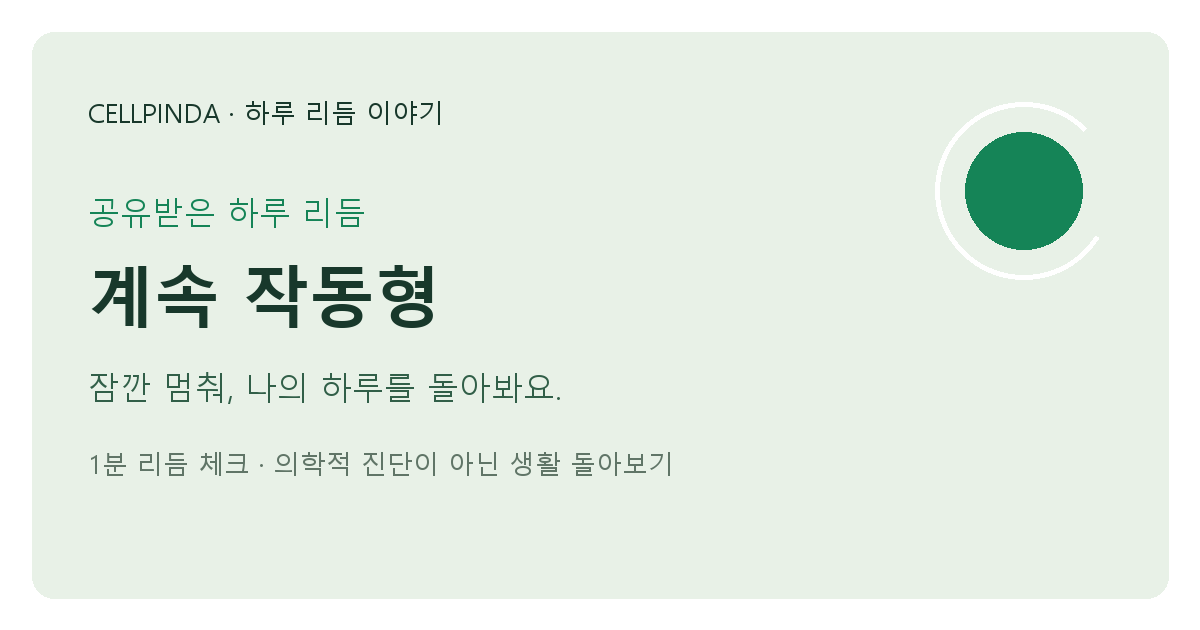
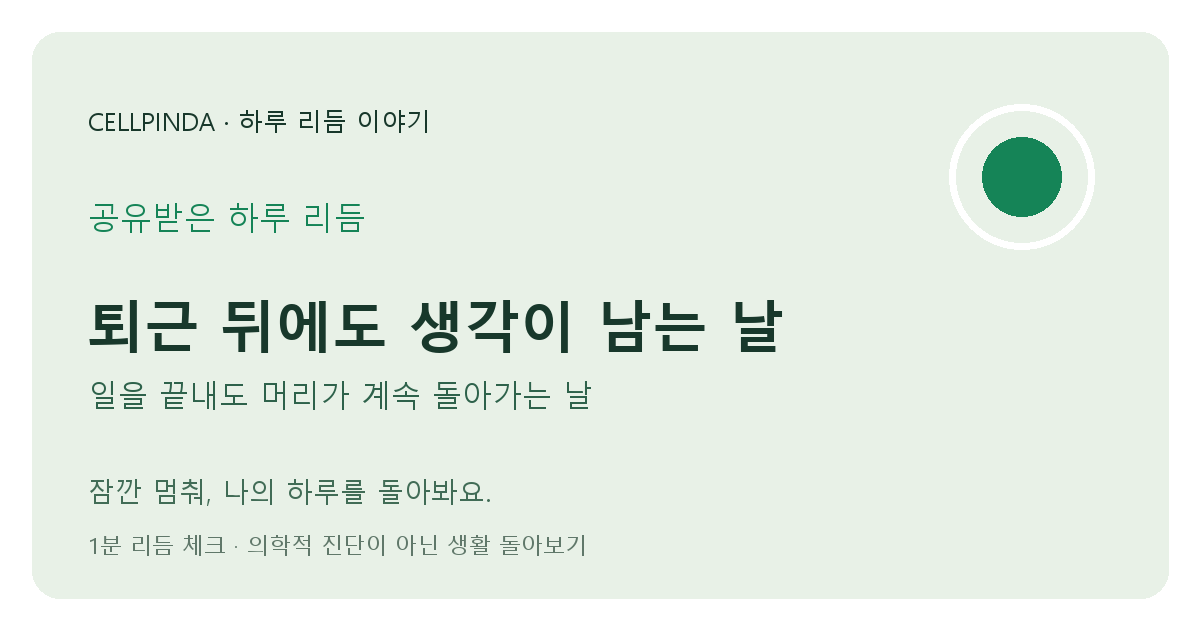
refine consumer rhythm and research copy

diff --git a/public/share/active/index.html b/public/share/active/index.html
@@ -1,10 +1,10 @@
 <!doctype html>
 <html lang="ko"><head><meta charset="UTF-8"><meta name="viewport" content="width=device-width, initial-scale=1">
-<title>공유받은 하루 리듬: ‘계속 작동형 · 퇴근 뒤에도 일이 생각나는 날’ | Cellpinda</title>
-<meta name="description" content="공유받은 ‘계속 작동형 · 퇴근 뒤에도 일이 생각나는 날’ 생활 기록이에요. 건강 검사가 아니며, 내 하루도 1분이면 확인해 보세요.">
+<title>공유받은 하루 리듬: ‘퇴근 뒤에도 생각이 남는 날 · 일을 끝내도 머리가 계속 돌아가는 날’ | Cellpinda</title>
+<meta name="description" content="공유받은 ‘퇴근 뒤에도 생각이 남는 날 · 일을 끝내도 머리가 계속 돌아가는 날’ 생활 기록이에요. 건강 검사가 아니며, 내 하루도 1분이면 확인해 보세요.">
 <link rel="canonical" href="https://kradavid.github.io/cellpinda_GABA/share/active/">
-<meta property="og:type" content="website"><meta property="og:site_name" content="셀핀다 발효가바"><meta property="og:locale" content="ko_KR"><meta property="og:url" content="https://kradavid.github.io/cellpinda_GABA/share/active/"><meta property="og:title" content="공유받은 하루 리듬: ‘계속 작동형 · 퇴근 뒤에도 일이 생각나는 날’ | Cellpinda"><meta property="og:description" content="공유받은 ‘계속 작동형 · 퇴근 뒤에도 일이 생각나는 날’ 생활 기록이에요. 건강 검사가 아니며, 내 하루도 1분이면 확인해 보세요."><meta property="og:image" content="https://kradavid.github.io/cellpinda_GABA/assets/social-rhythm-active.png"><meta property="og:image:type" content="image/png"><meta property="og:image:alt" content="계속 작동형 · 퇴근 뒤에도 일이 생각나는 날 하루 리듬 공유 카드"><meta property="og:image:width" content="1200"><meta property="og:image:height" content="630"><script type="application/ld+json">{"@context":"https://schema.org","@type":"WebPage","name":"공유받은 하루 리듬: ‘계속 작동형 · 퇴근 뒤에도 일이 생각나는 날’ | Cellpinda","url":"https://kradavid.github.io/cellpinda_GABA/share/active/","description":"공유받은 ‘계속 작동형 · 퇴근 뒤에도 일이 생각나는 날’ 생활 기록이에요. 건강 검사가 아니며, 내 하루도 1분이면 확인해 보세요.","inLanguage":"ko-KR","isPartOf":{"@type":"WebSite","url":"https://kradavid.github.io/cellpinda_GABA/"}}</script>
-<meta name="twitter:card" content="summary_large_image"><meta name="twitter:title" content="공유받은 하루 리듬: ‘계속 작동형 · 퇴근 뒤에도 일이 생각나는 날’ | Cellpinda"><meta name="twitter:description" content="공유받은 ‘계속 작동형 · 퇴근 뒤에도 일이 생각나는 날’ 생활 기록이에요. 건강 검사가 아니며, 내 하루도 1분이면 확인해 보세요."><meta name="twitter:image" content="https://kradavid.github.io/cellpinda_GABA/assets/social-rhythm-active.png">
+<meta property="og:type" content="website"><meta property="og:site_name" content="셀핀다 발효가바"><meta property="og:locale" content="ko_KR"><meta property="og:url" content="https://kradavid.github.io/cellpinda_GABA/share/active/"><meta property="og:title" content="공유받은 하루 리듬: ‘퇴근 뒤에도 생각이 남는 날 · 일을 끝내도 머리가 계속 돌아가는 날’ | Cellpinda"><meta property="og:description" content="공유받은 ‘퇴근 뒤에도 생각이 남는 날 · 일을 끝내도 머리가 계속 돌아가는 날’ 생활 기록이에요. 건강 검사가 아니며, 내 하루도 1분이면 확인해 보세요."><meta property="og:image" content="https://kradavid.github.io/cellpinda_GABA/assets/social-rhythm-active.png"><meta property="og:image:type" content="image/png"><meta property="og:image:alt" content="퇴근 뒤에도 생각이 남는 날 · 일을 끝내도 머리가 계속 돌아가는 날 하루 리듬 공유 카드"><meta property="og:image:width" content="1200"><meta property="og:image:height" content="630"><script type="application/ld+json">{"@context":"https://schema.org","@type":"WebPage","name":"공유받은 하루 리듬: ‘퇴근 뒤에도 생각이 남는 날 · 일을 끝내도 머리가 계속 돌아가는 날’ | Cellpinda","url":"https://kradavid.github.io/cellpinda_GABA/share/active/","description":"공유받은 ‘퇴근 뒤에도 생각이 남는 날 · 일을 끝내도 머리가 계속 돌아가는 날’ 생활 기록이에요. 건강 검사가 아니며, 내 하루도 1분이면 확인해 보세요.","inLanguage":"ko-KR","isPartOf":{"@type":"WebSite","url":"https://kradavid.github.io/cellpinda_GABA/"}}</script>
+<meta name="twitter:card" content="summary_large_image"><meta name="twitter:title" content="공유받은 하루 리듬: ‘퇴근 뒤에도 생각이 남는 날 · 일을 끝내도 머리가 계속 돌아가는 날’ | Cellpinda"><meta name="twitter:description" content="공유받은 ‘퇴근 뒤에도 생각이 남는 날 · 일을 끝내도 머리가 계속 돌아가는 날’ 생활 기록이에요. 건강 검사가 아니며, 내 하루도 1분이면 확인해 보세요."><meta name="twitter:image" content="https://kradavid.github.io/cellpinda_GABA/assets/social-rhythm-active.png">
 <meta http-equiv="refresh" content="0;url=../../?rhythm=active"></head><body><main><p>공유받은 하루 리듬 이야기를 여는 중입니다.</p><p><a href="../../?rhythm=active">리듬 이야기 열기</a></p></main><script>
 (function(){const target=new URL('../../',location.href);target.searchParams.set('rhythm','active');for(const key of ['ref','campaign']){const value=new URLSearchParams(location.search).get(key)||'';if(/^[A-Za-z0-9_-]{1,64}$/.test(value))target.searchParams.set(key,value);}location.replace(target.toString());})();
 </script></body></html>

diff --git a/public/share/sleep/index.html b/public/share/sleep/index.html
@@ -1,10 +1,10 @@
 <!doctype html>
 <html lang="ko"><head><meta charset="UTF-8"><meta name="viewport" content="width=device-width, initial-scale=1">
-<title>공유받은 하루 리듬: ‘잠자리 전환형 · 누워도 잠이 오지 않았던 날’ | Cellpinda</title>
-<meta name="description" content="공유받은 ‘잠자리 전환형 · 누워도 잠이 오지 않았던 날’ 생활 기록이에요. 건강 검사가 아니며, 내 하루도 1분이면 확인해 보세요.">
+<title>공유받은 하루 리듬: ‘누워도 잠이 안 오는 날 · 누워도 잠으로 넘어가기 어려운 날’ | Cellpinda</title>
+<meta name="description" content="공유받은 ‘누워도 잠이 안 오는 날 · 누워도 잠으로 넘어가기 어려운 날’ 생활 기록이에요. 건강 검사가 아니며, 내 하루도 1분이면 확인해 보세요.">
 <link rel="canonical" href="https://kradavid.github.io/cellpinda_GABA/share/sleep/">
-<meta property="og:type" content="website"><meta property="og:site_name" content="셀핀다 발효가바"><meta property="og:locale" content="ko_KR"><meta property="og:url" content="https://kradavid.github.io/cellpinda_GABA/share/sleep/"><meta property="og:title" content="공유받은 하루 리듬: ‘잠자리 전환형 · 누워도 잠이 오지 않았던 날’ | Cellpinda"><meta property="og:description" content="공유받은 ‘잠자리 전환형 · 누워도 잠이 오지 않았던 날’ 생활 기록이에요. 건강 검사가 아니며, 내 하루도 1분이면 확인해 보세요."><meta property="og:image" content="https://kradavid.github.io/cellpinda_GABA/assets/social-rhythm-sleep.png"><meta property="og:image:type" content="image/png"><meta property="og:image:alt" content="잠자리 전환형 · 누워도 잠이 오지 않았던 날 하루 리듬 공유 카드"><meta property="og:image:width" content="1200"><meta property="og:image:height" content="630"><script type="application/ld+json">{"@context":"https://schema.org","@type":"WebPage","name":"공유받은 하루 리듬: ‘잠자리 전환형 · 누워도 잠이 오지 않았던 날’ | Cellpinda","url":"https://kradavid.github.io/cellpinda_GABA/share/sleep/","description":"공유받은 ‘잠자리 전환형 · 누워도 잠이 오지 않았던 날’ 생활 기록이에요. 건강 검사가 아니며, 내 하루도 1분이면 확인해 보세요.","inLanguage":"ko-KR","isPartOf":{"@type":"WebSite","url":"https://kradavid.github.io/cellpinda_GABA/"}}</script>
-<meta name="twitter:card" content="summary_large_image"><meta name="twitter:title" content="공유받은 하루 리듬: ‘잠자리 전환형 · 누워도 잠이 오지 않았던 날’ | Cellpinda"><meta name="twitter:description" content="공유받은 ‘잠자리 전환형 · 누워도 잠이 오지 않았던 날’ 생활 기록이에요. 건강 검사가 아니며, 내 하루도 1분이면 확인해 보세요."><meta name="twitter:image" content="https://kradavid.github.io/cellpinda_GABA/assets/social-rhythm-sleep.png">
+<meta property="og:type" content="website"><meta property="og:site_name" content="셀핀다 발효가바"><meta property="og:locale" content="ko_KR"><meta property="og:url" content="https://kradavid.github.io/cellpinda_GABA/share/sleep/"><meta property="og:title" content="공유받은 하루 리듬: ‘누워도 잠이 안 오는 날 · 누워도 잠으로 넘어가기 어려운 날’ | Cellpinda"><meta property="og:description" content="공유받은 ‘누워도 잠이 안 오는 날 · 누워도 잠으로 넘어가기 어려운 날’ 생활 기록이에요. 건강 검사가 아니며, 내 하루도 1분이면 확인해 보세요."><meta property="og:image" content="https://kradavid.github.io/cellpinda_GABA/assets/social-rhythm-sleep.png"><meta property="og:image:type" content="image/png"><meta property="og:image:alt" content="누워도 잠이 안 오는 날 · 누워도 잠으로 넘어가기 어려운 날 하루 리듬 공유 카드"><meta property="og:image:width" content="1200"><meta property="og:image:height" content="630"><script type="application/ld+json">{"@context":"https://schema.org","@type":"WebPage","name":"공유받은 하루 리듬: ‘누워도 잠이 안 오는 날 · 누워도 잠으로 넘어가기 어려운 날’ | Cellpinda","url":"https://kradavid.github.io/cellpinda_GABA/share/sleep/","description":"공유받은 ‘누워도 잠이 안 오는 날 · 누워도 잠으로 넘어가기 어려운 날’ 생활 기록이에요. 건강 검사가 아니며, 내 하루도 1분이면 확인해 보세요.","inLanguage":"ko-KR","isPartOf":{"@type":"WebSite","url":"https://kradavid.github.io/cellpinda_GABA/"}}</script>
+<meta name="twitter:card" content="summary_large_image"><meta name="twitter:title" content="공유받은 하루 리듬: ‘누워도 잠이 안 오는 날 · 누워도 잠으로 넘어가기 어려운 날’ | Cellpinda"><meta name="twitter:description" content="공유받은 ‘누워도 잠이 안 오는 날 · 누워도 잠으로 넘어가기 어려운 날’ 생활 기록이에요. 건강 검사가 아니며, 내 하루도 1분이면 확인해 보세요."><meta name="twitter:image" content="https://kradavid.github.io/cellpinda_GABA/assets/social-rhythm-sleep.png">
 <meta http-equiv="refresh" content="0;url=../../?rhythm=sleep"></head><body><main><p>공유받은 하루 리듬 이야기를 여는 중입니다.</p><p><a href="../../?rhythm=sleep">리듬 이야기 열기</a></p></main><script>
 (function(){const target=new URL('../../',location.href);target.searchParams.set('rhythm','sleep');for(const key of ['ref','campaign']){const value=new URLSearchParams(location.search).get(key)||'';if(/^[A-Za-z0-9_-]{1,64}$/.test(value))target.searchParams.set(key,value);}location.replace(target.toString());})();
 </script></body></html>

diff --git a/public/share/sensory/index.html b/public/share/sensory/index.html
@@ -1,10 +1,10 @@
 <!doctype html>
 <html lang="ko"><head><meta charset="UTF-8"><meta name="viewport" content="width=device-width, initial-scale=1">
-<title>공유받은 하루 리듬: ‘자극 과부하형 · 사람과 화면에 지친 날’ | Cellpinda</title>
-<meta name="description" content="공유받은 ‘자극 과부하형 · 사람과 화면에 지친 날’ 생활 기록이에요. 건강 검사가 아니며, 내 하루도 1분이면 확인해 보세요.">
+<title>공유받은 하루 리듬: ‘사람과 화면 뒤에 지친 날 · 사람과 화면 뒤에 멍하고 예민한 날’ | Cellpinda</title>
+<meta name="description" content="공유받은 ‘사람과 화면 뒤에 지친 날 · 사람과 화면 뒤에 멍하고 예민한 날’ 생활 기록이에요. 건강 검사가 아니며, 내 하루도 1분이면 확인해 보세요.">
 <link rel="canonical" href="https://kradavid.github.io/cellpinda_GABA/share/sensory/">
-<meta property="og:type" content="website"><meta property="og:site_name" content="셀핀다 발효가바"><meta property="og:locale" content="ko_KR"><meta property="og:url" content="https://kradavid.github.io/cellpinda_GABA/share/sensory/"><meta property="og:title" content="공유받은 하루 리듬: ‘자극 과부하형 · 사람과 화면에 지친 날’ | Cellpinda"><meta property="og:description" content="공유받은 ‘자극 과부하형 · 사람과 화면에 지친 날’ 생활 기록이에요. 건강 검사가 아니며, 내 하루도 1분이면 확인해 보세요."><meta property="og:image" content="https://kradavid.github.io/cellpinda_GABA/assets/social-rhythm-sensory.png"><meta property="og:image:type" content="image/png"><meta property="og:image:alt" content="자극 과부하형 · 사람과 화면에 지친 날 하루 리듬 공유 카드"><meta property="og:image:width" content="1200"><meta property="og:image:height" content="630"><script type="application/ld+json">{"@context":"https://schema.org","@type":"WebPage","name":"공유받은 하루 리듬: ‘자극 과부하형 · 사람과 화면에 지친 날’ | Cellpinda","url":"https://kradavid.github.io/cellpinda_GABA/share/sensory/","description":"공유받은 ‘자극 과부하형 · 사람과 화면에 지친 날’ 생활 기록이에요. 건강 검사가 아니며, 내 하루도 1분이면 확인해 보세요.","inLanguage":"ko-KR","isPartOf":{"@type":"WebSite","url":"https://kradavid.github.io/cellpinda_GABA/"}}</script>
-<meta name="twitter:card" content="summary_large_image"><meta name="twitter:title" content="공유받은 하루 리듬: ‘자극 과부하형 · 사람과 화면에 지친 날’ | Cellpinda"><meta name="twitter:description" content="공유받은 ‘자극 과부하형 · 사람과 화면에 지친 날’ 생활 기록이에요. 건강 검사가 아니며, 내 하루도 1분이면 확인해 보세요."><meta name="twitter:image" content="https://kradavid.github.io/cellpinda_GABA/assets/social-rhythm-sensory.png">
+<meta property="og:type" content="website"><meta property="og:site_name" content="셀핀다 발효가바"><meta property="og:locale" content="ko_KR"><meta property="og:url" content="https://kradavid.github.io/cellpinda_GABA/share/sensory/"><meta property="og:title" content="공유받은 하루 리듬: ‘사람과 화면 뒤에 지친 날 · 사람과 화면 뒤에 멍하고 예민한 날’ | Cellpinda"><meta property="og:description" content="공유받은 ‘사람과 화면 뒤에 지친 날 · 사람과 화면 뒤에 멍하고 예민한 날’ 생활 기록이에요. 건강 검사가 아니며, 내 하루도 1분이면 확인해 보세요."><meta property="og:image" content="https://kradavid.github.io/cellpinda_GABA/assets/social-rhythm-sensory.png"><meta property="og:image:type" content="image/png"><meta property="og:image:alt" content="사람과 화면 뒤에 지친 날 · 사람과 화면 뒤에 멍하고 예민한 날 하루 리듬 공유 카드"><meta property="og:image:width" content="1200"><meta property="og:image:height" content="630"><script type="application/ld+json">{"@context":"https://schema.org","@type":"WebPage","name":"공유받은 하루 리듬: ‘사람과 화면 뒤에 지친 날 · 사람과 화면 뒤에 멍하고 예민한 날’ | Cellpinda","url":"https://kradavid.github.io/cellpinda_GABA/share/sensory/","description":"공유받은 ‘사람과 화면 뒤에 지친 날 · 사람과 화면 뒤에 멍하고 예민한 날’ 생활 기록이에요. 건강 검사가 아니며, 내 하루도 1분이면 확인해 보세요.","inLanguage":"ko-KR","isPartOf":{"@type":"WebSite","url":"https://kradavid.github.io/cellpinda_GABA/"}}</script>
+<meta name="twitter:card" content="summary_large_image"><meta name="twitter:title" content="공유받은 하루 리듬: ‘사람과 화면 뒤에 지친 날 · 사람과 화면 뒤에 멍하고 예민한 날’ | Cellpinda"><meta name="twitter:description" content="공유받은 ‘사람과 화면 뒤에 지친 날 · 사람과 화면 뒤에 멍하고 예민한 날’ 생활 기록이에요. 건강 검사가 아니며, 내 하루도 1분이면 확인해 보세요."><meta name="twitter:image" content="https://kradavid.github.io/cellpinda_GABA/assets/social-rhythm-sensory.png">
 <meta http-equiv="refresh" content="0;url=../../?rhythm=sensory"></head><body><main><p>공유받은 하루 리듬 이야기를 여는 중입니다.</p><p><a href="../../?rhythm=sensory">리듬 이야기 열기</a></p></main><script>
 (function(){const target=new URL('../../',location.href);target.searchParams.set('rhythm','sensory');for(const key of ['ref','campaign']){const value=new URLSearchParams(location.search).get(key)||'';if(/^[A-Za-z0-9_-]{1,64}$/.test(value))target.searchParams.set(key,value);}location.replace(target.toString());})();
 </script></body></html>

diff --git a/public/share/irregular/index.html b/public/share/irregular/index.html
@@ -1,10 +1,10 @@
 <!doctype html>
 <html lang="ko"><head><meta charset="UTF-8"><meta name="viewport" content="width=device-width, initial-scale=1">
-<title>공유받은 하루 리듬: ‘휴식 공백형 · 하루에 쉴 틈이 부족했던 날’ | Cellpinda</title>
-<meta name="description" content="공유받은 ‘휴식 공백형 · 하루에 쉴 틈이 부족했던 날’ 생활 기록이에요. 건강 검사가 아니며, 내 하루도 1분이면 확인해 보세요.">
+<title>공유받은 하루 리듬: ‘하루에 5분도 못 쉰 날 · 쉬는 시간 없이 하루가 지나간 날’ | Cellpinda</title>
+<meta name="description" content="공유받은 ‘하루에 5분도 못 쉰 날 · 쉬는 시간 없이 하루가 지나간 날’ 생활 기록이에요. 건강 검사가 아니며, 내 하루도 1분이면 확인해 보세요.">
 <link rel="canonical" href="https://kradavid.github.io/cellpinda_GABA/share/irregular/">
-<meta property="og:type" content="website"><meta property="og:site_name" content="셀핀다 발효가바"><meta property="og:locale" content="ko_KR"><meta property="og:url" content="https://kradavid.github.io/cellpinda_GABA/share/irregular/"><meta property="og:title" content="공유받은 하루 리듬: ‘휴식 공백형 · 하루에 쉴 틈이 부족했던 날’ | Cellpinda"><meta property="og:description" content="공유받은 ‘휴식 공백형 · 하루에 쉴 틈이 부족했던 날’ 생활 기록이에요. 건강 검사가 아니며, 내 하루도 1분이면 확인해 보세요."><meta property="og:image" content="https://kradavid.github.io/cellpinda_GABA/assets/social-rhythm-irregular.png"><meta property="og:image:type" content="image/png"><meta property="og:image:alt" content="휴식 공백형 · 하루에 쉴 틈이 부족했던 날 하루 리듬 공유 카드"><meta property="og:image:width" content="1200"><meta property="og:image:height" content="630"><script type="application/ld+json">{"@context":"https://schema.org","@type":"WebPage","name":"공유받은 하루 리듬: ‘휴식 공백형 · 하루에 쉴 틈이 부족했던 날’ | Cellpinda","url":"https://kradavid.github.io/cellpinda_GABA/share/irregular/","description":"공유받은 ‘휴식 공백형 · 하루에 쉴 틈이 부족했던 날’ 생활 기록이에요. 건강 검사가 아니며, 내 하루도 1분이면 확인해 보세요.","inLanguage":"ko-KR","isPartOf":{"@type":"WebSite","url":"https://kradavid.github.io/cellpinda_GABA/"}}</script>
-<meta name="twitter:card" content="summary_large_image"><meta name="twitter:title" content="공유받은 하루 리듬: ‘휴식 공백형 · 하루에 쉴 틈이 부족했던 날’ | Cellpinda"><meta name="twitter:description" content="공유받은 ‘휴식 공백형 · 하루에 쉴 틈이 부족했던 날’ 생활 기록이에요. 건강 검사가 아니며, 내 하루도 1분이면 확인해 보세요."><meta name="twitter:image" content="https://kradavid.github.io/cellpinda_GABA/assets/social-rhythm-irregular.png">
+<meta property="og:type" content="website"><meta property="og:site_name" content="셀핀다 발효가바"><meta property="og:locale" content="ko_KR"><meta property="og:url" content="https://kradavid.github.io/cellpinda_GABA/share/irregular/"><meta property="og:title" content="공유받은 하루 리듬: ‘하루에 5분도 못 쉰 날 · 쉬는 시간 없이 하루가 지나간 날’ | Cellpinda"><meta property="og:description" content="공유받은 ‘하루에 5분도 못 쉰 날 · 쉬는 시간 없이 하루가 지나간 날’ 생활 기록이에요. 건강 검사가 아니며, 내 하루도 1분이면 확인해 보세요."><meta property="og:image" content="https://kradavid.github.io/cellpinda_GABA/assets/social-rhythm-irregular.png"><meta property="og:image:type" content="image/png"><meta property="og:image:alt" content="하루에 5분도 못 쉰 날 · 쉬는 시간 없이 하루가 지나간 날 하루 리듬 공유 카드"><meta property="og:image:width" content="1200"><meta property="og:image:height" content="630"><script type="application/ld+json">{"@context":"https://schema.org","@type":"WebPage","name":"공유받은 하루 리듬: ‘하루에 5분도 못 쉰 날 · 쉬는 시간 없이 하루가 지나간 날’ | Cellpinda","url":"https://kradavid.github.io/cellpinda_GABA/share/irregular/","description":"공유받은 ‘하루에 5분도 못 쉰 날 · 쉬는 시간 없이 하루가 지나간 날’ 생활 기록이에요. 건강 검사가 아니며, 내 하루도 1분이면 확인해 보세요.","inLanguage":"ko-KR","isPartOf":{"@type":"WebSite","url":"https://kradavid.github.io/cellpinda_GABA/"}}</script>
+<meta name="twitter:card" content="summary_large_image"><meta name="twitter:title" content="공유받은 하루 리듬: ‘하루에 5분도 못 쉰 날 · 쉬는 시간 없이 하루가 지나간 날’ | Cellpinda"><meta name="twitter:description" content="공유받은 ‘하루에 5분도 못 쉰 날 · 쉬는 시간 없이 하루가 지나간 날’ 생활 기록이에요. 건강 검사가 아니며, 내 하루도 1분이면 확인해 보세요."><meta name="twitter:image" content="https://kradavid.github.io/cellpinda_GABA/assets/social-rhythm-irregular.png">
 <meta http-equiv="refresh" content="0;url=../../?rhythm=irregular"></head><body><main><p>공유받은 하루 리듬 이야기를 여는 중입니다.</p><p><a href="../../?rhythm=irregular">리듬 이야기 열기</a></p></main><script>
 (function(){const target=new URL('../../',location.href);target.searchParams.set('rhythm','irregular');for(const key of ['ref','campaign']){const value=new URLSearchParams(location.search).get(key)||'';if(/^[A-Za-z0-9_-]{1,64}$/.test(value))target.searchParams.set(key,value);}location.replace(target.toString());})();
 </script></body></html>

diff --git a/public/share/steady/index.html b/public/share/steady/index.html
@@ -1,10 +1,10 @@
 <!doctype html>
 <html lang="ko"><head><meta charset="UTF-8"><meta name="viewport" content="width=device-width, initial-scale=1">
-<title>공유받은 하루 리듬: ‘안정 리듬형 · 잠과 휴식이 괜찮았던 날’ | Cellpinda</title>
-<meta name="description" content="공유받은 ‘안정 리듬형 · 잠과 휴식이 괜찮았던 날’ 생활 기록이에요. 건강 검사가 아니며, 내 하루도 1분이면 확인해 보세요.">
+<title>공유받은 하루 리듬: ‘잠과 휴식이 괜찮은 날 · 잠과 휴식이 비교적 편안한 날’ | Cellpinda</title>
+<meta name="description" content="공유받은 ‘잠과 휴식이 괜찮은 날 · 잠과 휴식이 비교적 편안한 날’ 생활 기록이에요. 건강 검사가 아니며, 내 하루도 1분이면 확인해 보세요.">
 <link rel="canonical" href="https://kradavid.github.io/cellpinda_GABA/share/steady/">
-<meta property="og:type" content="website"><meta property="og:site_name" content="셀핀다 발효가바"><meta property="og:locale" content="ko_KR"><meta property="og:url" content="https://kradavid.github.io/cellpinda_GABA/share/steady/"><meta property="og:title" content="공유받은 하루 리듬: ‘안정 리듬형 · 잠과 휴식이 괜찮았던 날’ | Cellpinda"><meta property="og:description" content="공유받은 ‘안정 리듬형 · 잠과 휴식이 괜찮았던 날’ 생활 기록이에요. 건강 검사가 아니며, 내 하루도 1분이면 확인해 보세요."><meta property="og:image" content="https://kradavid.github.io/cellpinda_GABA/assets/social-rhythm-steady.png"><meta property="og:image:type" content="image/png"><meta property="og:image:alt" content="안정 리듬형 · 잠과 휴식이 괜찮았던 날 하루 리듬 공유 카드"><meta property="og:image:width" content="1200"><meta property="og:image:height" content="630"><script type="application/ld+json">{"@context":"https://schema.org","@type":"WebPage","name":"공유받은 하루 리듬: ‘안정 리듬형 · 잠과 휴식이 괜찮았던 날’ | Cellpinda","url":"https://kradavid.github.io/cellpinda_GABA/share/steady/","description":"공유받은 ‘안정 리듬형 · 잠과 휴식이 괜찮았던 날’ 생활 기록이에요. 건강 검사가 아니며, 내 하루도 1분이면 확인해 보세요.","inLanguage":"ko-KR","isPartOf":{"@type":"WebSite","url":"https://kradavid.github.io/cellpinda_GABA/"}}</script>
-<meta name="twitter:card" content="summary_large_image"><meta name="twitter:title" content="공유받은 하루 리듬: ‘안정 리듬형 · 잠과 휴식이 괜찮았던 날’ | Cellpinda"><meta name="twitter:description" content="공유받은 ‘안정 리듬형 · 잠과 휴식이 괜찮았던 날’ 생활 기록이에요. 건강 검사가 아니며, 내 하루도 1분이면 확인해 보세요."><meta name="twitter:image" content="https://kradavid.github.io/cellpinda_GABA/assets/social-rhythm-steady.png">
+<meta property="og:type" content="website"><meta property="og:site_name" content="셀핀다 발효가바"><meta property="og:locale" content="ko_KR"><meta property="og:url" content="https://kradavid.github.io/cellpinda_GABA/share/steady/"><meta property="og:title" content="공유받은 하루 리듬: ‘잠과 휴식이 괜찮은 날 · 잠과 휴식이 비교적 편안한 날’ | Cellpinda"><meta property="og:description" content="공유받은 ‘잠과 휴식이 괜찮은 날 · 잠과 휴식이 비교적 편안한 날’ 생활 기록이에요. 건강 검사가 아니며, 내 하루도 1분이면 확인해 보세요."><meta property="og:image" content="https://kradavid.github.io/cellpinda_GABA/assets/social-rhythm-steady.png"><meta property="og:image:type" content="image/png"><meta property="og:image:alt" content="잠과 휴식이 괜찮은 날 · 잠과 휴식이 비교적 편안한 날 하루 리듬 공유 카드"><meta property="og:image:width" content="1200"><meta property="og:image:height" content="630"><script type="application/ld+json">{"@context":"https://schema.org","@type":"WebPage","name":"공유받은 하루 리듬: ‘잠과 휴식이 괜찮은 날 · 잠과 휴식이 비교적 편안한 날’ | Cellpinda","url":"https://kradavid.github.io/cellpinda_GABA/share/steady/","description":"공유받은 ‘잠과 휴식이 괜찮은 날 · 잠과 휴식이 비교적 편안한 날’ 생활 기록이에요. 건강 검사가 아니며, 내 하루도 1분이면 확인해 보세요.","inLanguage":"ko-KR","isPartOf":{"@type":"WebSite","url":"https://kradavid.github.io/cellpinda_GABA/"}}</script>
+<meta name="twitter:card" content="summary_large_image"><meta name="twitter:title" content="공유받은 하루 리듬: ‘잠과 휴식이 괜찮은 날 · 잠과 휴식이 비교적 편안한 날’ | Cellpinda"><meta name="twitter:description" content="공유받은 ‘잠과 휴식이 괜찮은 날 · 잠과 휴식이 비교적 편안한 날’ 생활 기록이에요. 건강 검사가 아니며, 내 하루도 1분이면 확인해 보세요."><meta name="twitter:image" content="https://kradavid.github.io/cellpinda_GABA/assets/social-rhythm-steady.png">
 <meta http-equiv="refresh" content="0;url=../../?rhythm=steady"></head><body><main><p>공유받은 하루 리듬 이야기를 여는 중입니다.</p><p><a href="../../?rhythm=steady">리듬 이야기 열기</a></p></main><script>
 (function(){const target=new URL('../../',location.href);target.searchParams.set('rhythm','steady');for(const key of ['ref','campaign']){const value=new URLSearchParams(location.search).get(key)||'';if(/^[A-Za-z0-9_-]{1,64}$/.test(value))target.searchParams.set(key,value);}location.replace(target.toString());})();
 </script></body></html>

diff --git a/public/share/unrested/index.html b/public/share/unrested/index.html
@@ -1,10 +1,10 @@
 <!doctype html>
 <html lang="ko"><head><meta charset="UTF-8"><meta name="viewport" content="width=device-width, initial-scale=1">
-<title>공유받은 하루 리듬: ‘회복 우선형 · 아침에도 피곤했던 날’ | Cellpinda</title>
-<meta name="description" content="공유받은 ‘회복 우선형 · 아침에도 피곤했던 날’ 생활 기록이에요. 건강 검사가 아니며, 내 하루도 1분이면 확인해 보세요.">
+<title>공유받은 하루 리듬: ‘자도 아침에 피곤한 날 · 자고 일어나도 피로가 남는 날’ | Cellpinda</title>
+<meta name="description" content="공유받은 ‘자도 아침에 피곤한 날 · 자고 일어나도 피로가 남는 날’ 생활 기록이에요. 건강 검사가 아니며, 내 하루도 1분이면 확인해 보세요.">
 <link rel="canonical" href="https://kradavid.github.io/cellpinda_GABA/share/unrested/">
-<meta property="og:type" content="website"><meta property="og:site_name" content="셀핀다 발효가바"><meta property="og:locale" content="ko_KR"><meta property="og:url" content="https://kradavid.github.io/cellpinda_GABA/share/unrested/"><meta property="og:title" content="공유받은 하루 리듬: ‘회복 우선형 · 아침에도 피곤했던 날’ | Cellpinda"><meta property="og:description" content="공유받은 ‘회복 우선형 · 아침에도 피곤했던 날’ 생활 기록이에요. 건강 검사가 아니며, 내 하루도 1분이면 확인해 보세요."><meta property="og:image" content="https://kradavid.github.io/cellpinda_GABA/assets/social-rhythm-unrested.png"><meta property="og:image:type" content="image/png"><meta property="og:image:alt" content="회복 우선형 · 아침에도 피곤했던 날 하루 리듬 공유 카드"><meta property="og:image:width" content="1200"><meta property="og:image:height" content="630"><script type="application/ld+json">{"@context":"https://schema.org","@type":"WebPage","name":"공유받은 하루 리듬: ‘회복 우선형 · 아침에도 피곤했던 날’ | Cellpinda","url":"https://kradavid.github.io/cellpinda_GABA/share/unrested/","description":"공유받은 ‘회복 우선형 · 아침에도 피곤했던 날’ 생활 기록이에요. 건강 검사가 아니며, 내 하루도 1분이면 확인해 보세요.","inLanguage":"ko-KR","isPartOf":{"@type":"WebSite","url":"https://kradavid.github.io/cellpinda_GABA/"}}</script>
-<meta name="twitter:card" content="summary_large_image"><meta name="twitter:title" content="공유받은 하루 리듬: ‘회복 우선형 · 아침에도 피곤했던 날’ | Cellpinda"><meta name="twitter:description" content="공유받은 ‘회복 우선형 · 아침에도 피곤했던 날’ 생활 기록이에요. 건강 검사가 아니며, 내 하루도 1분이면 확인해 보세요."><meta name="twitter:image" content="https://kradavid.github.io/cellpinda_GABA/assets/social-rhythm-unrested.png">
+<meta property="og:type" content="website"><meta property="og:site_name" content="셀핀다 발효가바"><meta property="og:locale" content="ko_KR"><meta property="og:url" content="https://kradavid.github.io/cellpinda_GABA/share/unrested/"><meta property="og:title" content="공유받은 하루 리듬: ‘자도 아침에 피곤한 날 · 자고 일어나도 피로가 남는 날’ | Cellpinda"><meta property="og:description" content="공유받은 ‘자도 아침에 피곤한 날 · 자고 일어나도 피로가 남는 날’ 생활 기록이에요. 건강 검사가 아니며, 내 하루도 1분이면 확인해 보세요."><meta property="og:image" content="https://kradavid.github.io/cellpinda_GABA/assets/social-rhythm-unrested.png"><meta property="og:image:type" content="image/png"><meta property="og:image:alt" content="자도 아침에 피곤한 날 · 자고 일어나도 피로가 남는 날 하루 리듬 공유 카드"><meta property="og:image:width" content="1200"><meta property="og:image:height" content="630"><script type="application/ld+json">{"@context":"https://schema.org","@type":"WebPage","name":"공유받은 하루 리듬: ‘자도 아침에 피곤한 날 · 자고 일어나도 피로가 남는 날’ | Cellpinda","url":"https://kradavid.github.io/cellpinda_GABA/share/unrested/","description":"공유받은 ‘자도 아침에 피곤한 날 · 자고 일어나도 피로가 남는 날’ 생활 기록이에요. 건강 검사가 아니며, 내 하루도 1분이면 확인해 보세요.","inLanguage":"ko-KR","isPartOf":{"@type":"WebSite","url":"https://kradavid.github.io/cellpinda_GABA/"}}</script>
+<meta name="twitter:card" content="summary_large_image"><meta name="twitter:title" content="공유받은 하루 리듬: ‘자도 아침에 피곤한 날 · 자고 일어나도 피로가 남는 날’ | Cellpinda"><meta name="twitter:description" content="공유받은 ‘자도 아침에 피곤한 날 · 자고 일어나도 피로가 남는 날’ 생활 기록이에요. 건강 검사가 아니며, 내 하루도 1분이면 확인해 보세요."><meta name="twitter:image" content="https://kradavid.github.io/cellpinda_GABA/assets/social-rhythm-unrested.png">
 <meta http-equiv="refresh" content="0;url=../../?rhythm=unrested"></head><body><main><p>공유받은 하루 리듬 이야기를 여는 중입니다.</p><p><a href="../../?rhythm=unrested">리듬 이야기 열기</a></p></main><script>
 (function(){const target=new URL('../../',location.href);target.searchParams.set('rhythm','unrested');for(const key of ['ref','campaign']){const value=new URLSearchParams(location.search).get(key)||'';if(/^[A-Za-z0-9_-]{1,64}$/.test(value))target.searchParams.set(key,value);}location.replace(target.toString());})();
 </script></body></html>

diff --git a/src/domain/rhythm.test.ts b/src/domain/rhythm.test.ts
@@ -13,12 +13,12 @@ test('all five questions provide four unique recovery choices', () => {
 });
 
 test('representative responses reach every named type', () => {
-  assert.equal(classifyRhythm([0, 0, 0, 0, 0]).type.name, '잠과 휴식이 괜찮았던 날');
-  assert.equal(classifyRhythm([3, 0, 0, 0, 0]).type.name, '퇴근 뒤에도 일이 생각나는 날');
-  assert.equal(classifyRhythm([0, 3, 0, 0, 0]).type.name, '누워도 잠이 오지 않았던 날');
-  assert.equal(classifyRhythm([0, 0, 3, 0, 0]).type.name, '하루에 쉴 틈이 부족했던 날');
-  assert.equal(classifyRhythm([0, 0, 0, 3, 0]).type.name, '사람과 화면에 지친 날');
-  assert.equal(classifyRhythm([0, 0, 0, 0, 3]).type.name, '아침에도 피곤했던 날');
+  assert.equal(classifyRhythm([0, 0, 0, 0, 0]).type.name, '잠과 휴식이 비교적 편안한 날');
+  assert.equal(classifyRhythm([3, 0, 0, 0, 0]).type.name, '일을 끝내도 머리가 계속 돌아가는 날');
+  assert.equal(classifyRhythm([0, 3, 0, 0, 0]).type.name, '누워도 잠으로 넘어가기 어려운 날');
+  assert.equal(classifyRhythm([0, 0, 3, 0, 0]).type.name, '쉬는 시간 없이 하루가 지나간 날');
+  assert.equal(classifyRhythm([0, 0, 0, 3, 0]).type.name, '사람과 화면 뒤에 멍하고 예민한 날');
+  assert.equal(classifyRhythm([0, 0, 0, 0, 3]).type.name, '자고 일어나도 피로가 남는 날');
 });
 
 test('boundaries and tie priority follow the published editorial rule', () => {

diff --git a/src/components/RhythmExperience.tsx b/src/components/RhythmExperience.tsx
@@ -77,7 +77,7 @@ function BrainLoadVisual({ result }: { result: RhythmResult }) {
   const band = score >= 10 ? 'high' : score >= 5 ? 'watch' : 'low';
   const answerEntries = Object.entries(result.scores);
   const frequentAnswers = answerEntries.filter(([, value]) => value >= 2).length;
-  const description = `${frequentAnswers}개 질문에서 자주 또는 거의 매일 쉬지 못했다고 답했어요.`;
+  const description = `5개 질문 중 ${frequentAnswers}개에서 힘들었다고 답했어요.`;
 
   return (
     <div className={`rhythm-load-score rhythm-load-score-${band}`}>
@@ -85,7 +85,7 @@ function BrainLoadVisual({ result }: { result: RhythmResult }) {
       <div className="rhythm-load-visual">
         <div className="rhythm-load-visual-copy">
           <p className="rhythm-load-visual-kicker">5개 질문 중</p>
-          <strong>자주 쉬지 못했다고 답한 질문</strong>
+          <strong>힘들었다고 답한 질문</strong>
           <div className="rhythm-load-answer-row">
             <div className="rhythm-load-answer-dots" role="img" aria-label={description}>
               {answerEntries.map(([questionId, value]) => <i key={questionId} className={value >= 2 ? 'is-filled' : ''} />)}
